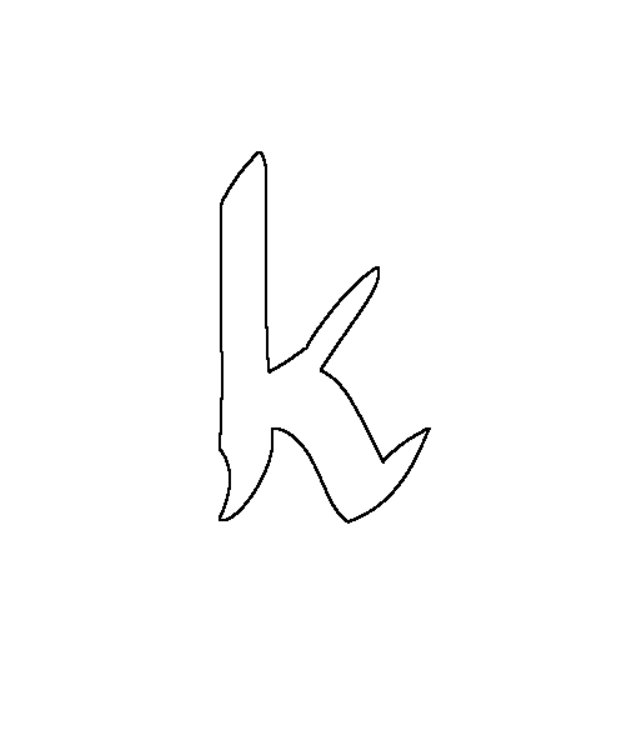
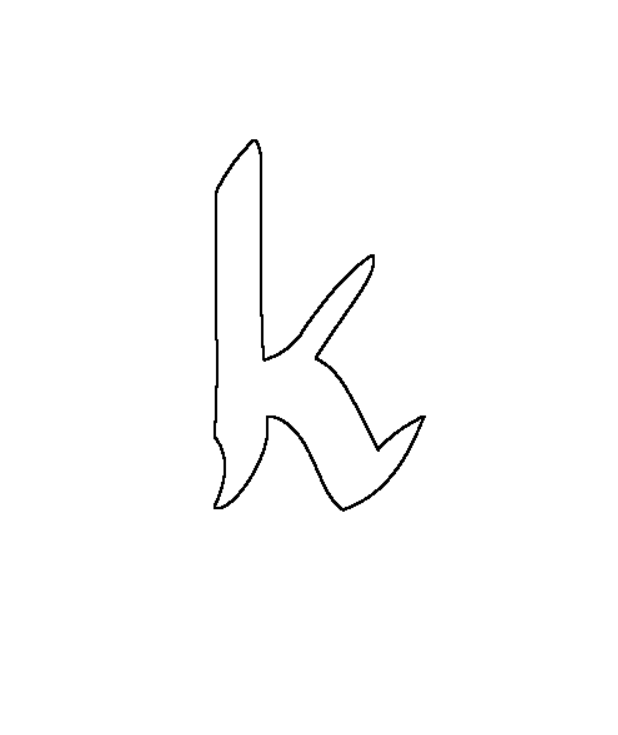
corrected k, added new demo

diff --git a/main.py b/main.py
@@ -69,7 +69,7 @@ text5 = smallfont.render('Edycja On ', True, BLACK)
 text6 = smallfont.render('Edycja Off', True, BLACK)
 text7 = smallfont.render('Wyswietl litere', True, BLACK)
 
-letter_img = pygame.image.load('letters_raw_extracted/ę.png')
+letter_img = pygame.image.load('letters_raw_extracted/k.png')
 
 # Main game loop
 running = True
@@ -84,7 +84,7 @@ current_curve_id = 0
 prev_edited_curve_id = None
 
 # read curves from file
-f = open('letters_json/e.json')
+f = open('letters_json/k.json')
 all_curves = json.load(f)
 current_curve_id = len(all_curves) - 1
 prev_edited_curve_id = len(all_curves) - 2
@@ -131,7 +131,7 @@ while running:
             elif event.button == 1 and 95 <= mouse[0] <= 170 and 10 <= mouse[1] <= 50:  # kliknieto "siatka"
                 draw_grid = not draw_grid
             elif event.button == 1 and 10 <= mouse[0] <= 85 and 60 <= mouse[1] <= 100:  # kliknieto "zapisz"
-                with open('e.json', 'w', encoding='utf-8') as f:
+                with open('k.json', 'w', encoding='utf-8') as f:
                     json.dump(all_curves, f, ensure_ascii=False, indent=4)
             elif event.button == 1 and 95 <= mouse[0] <= 170 and 60 <= mouse[1] <= 100:  # kliknieto "zmien prosta"
                 edit = True
